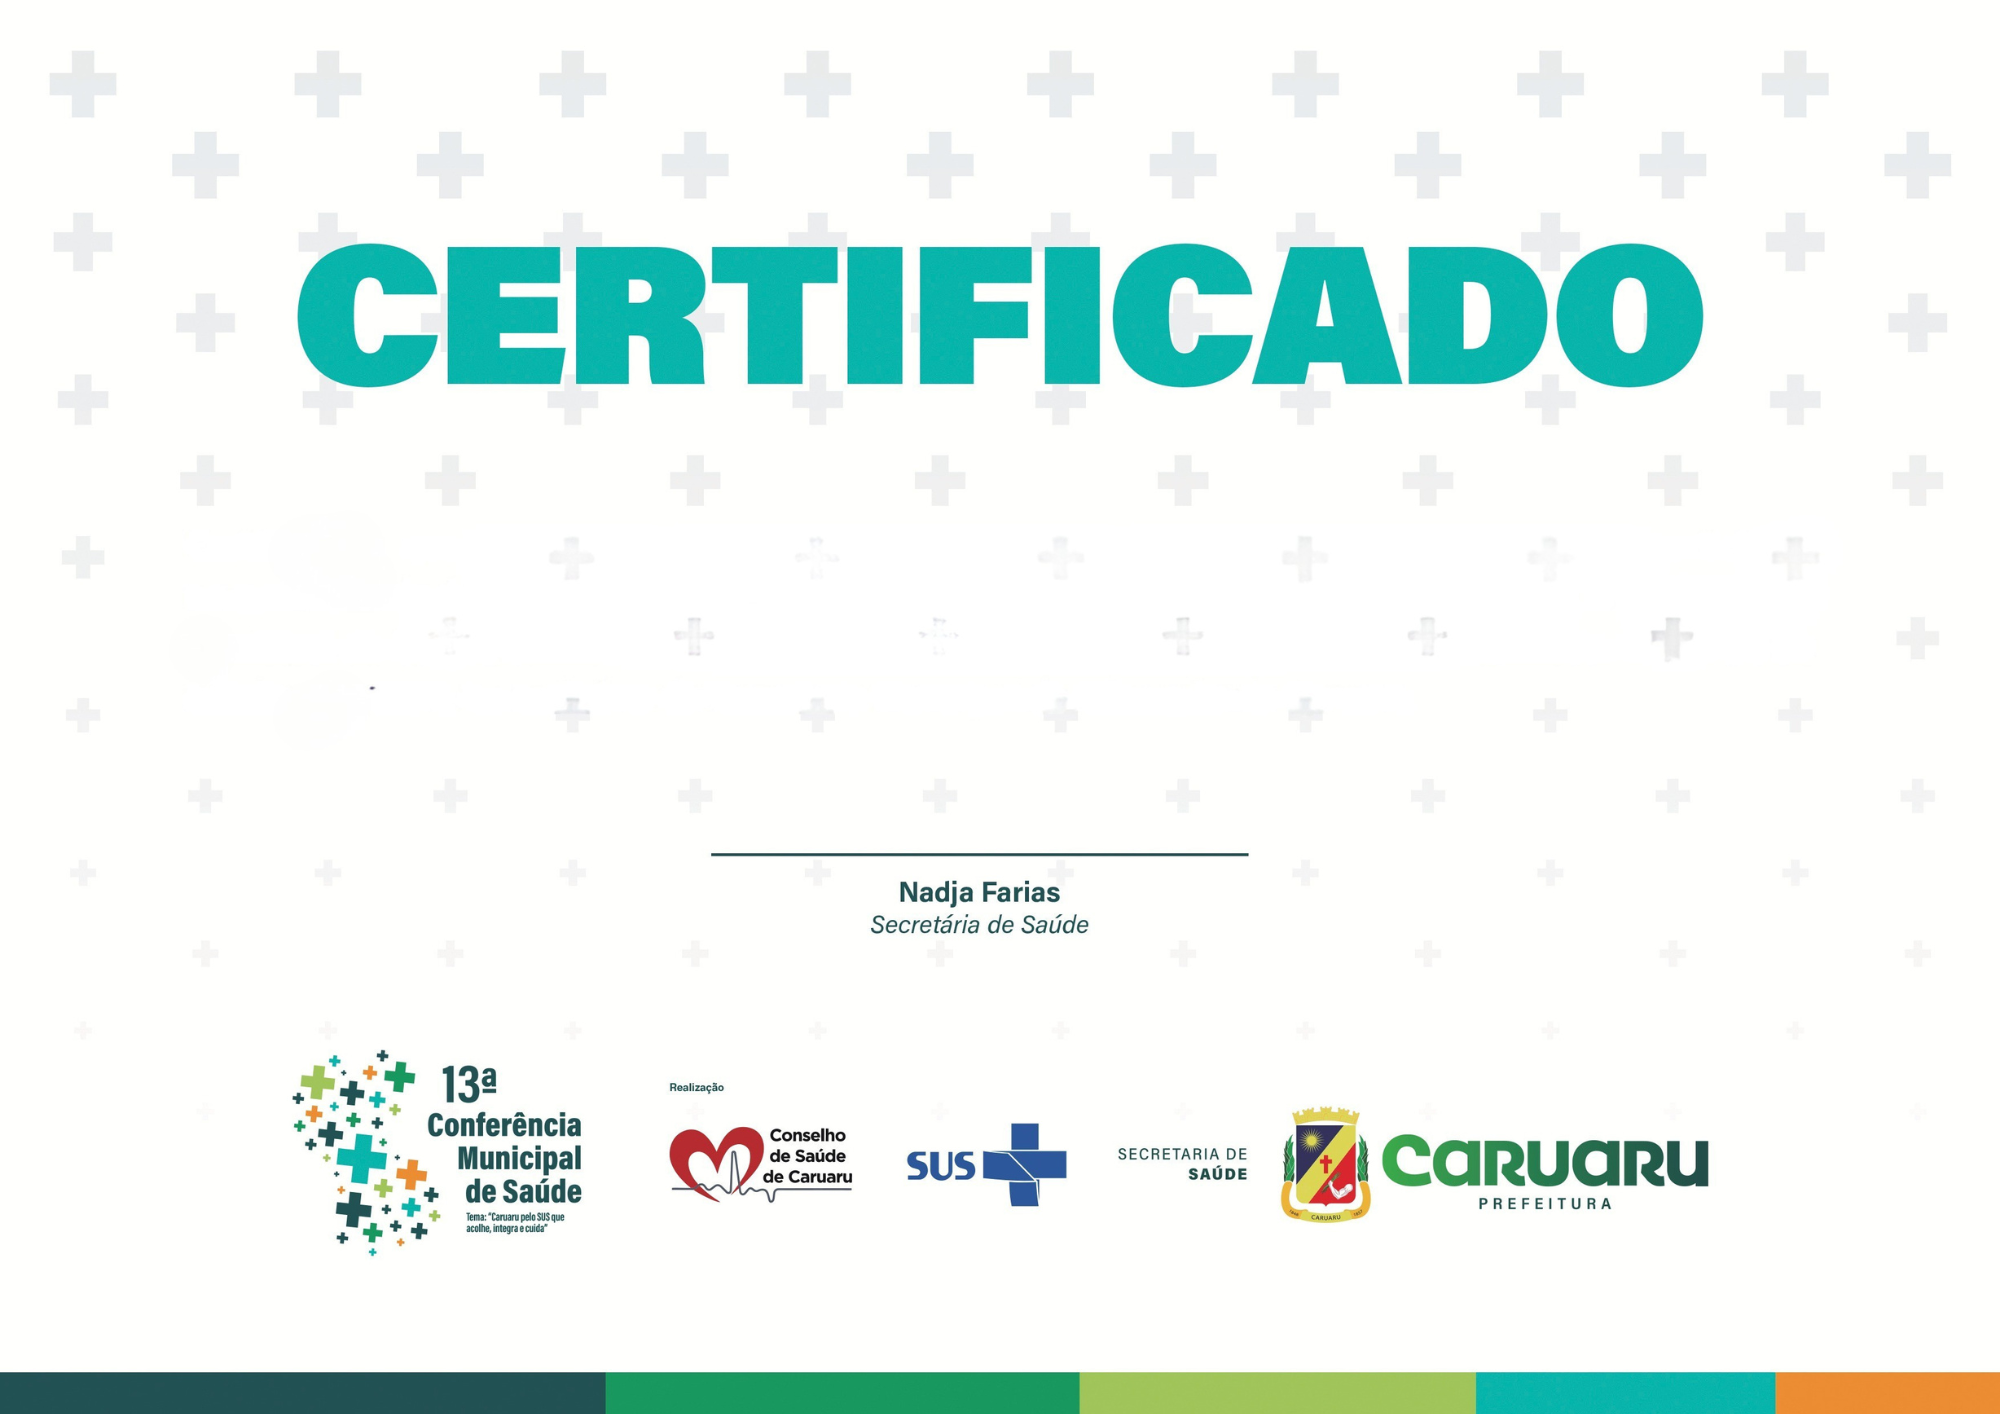
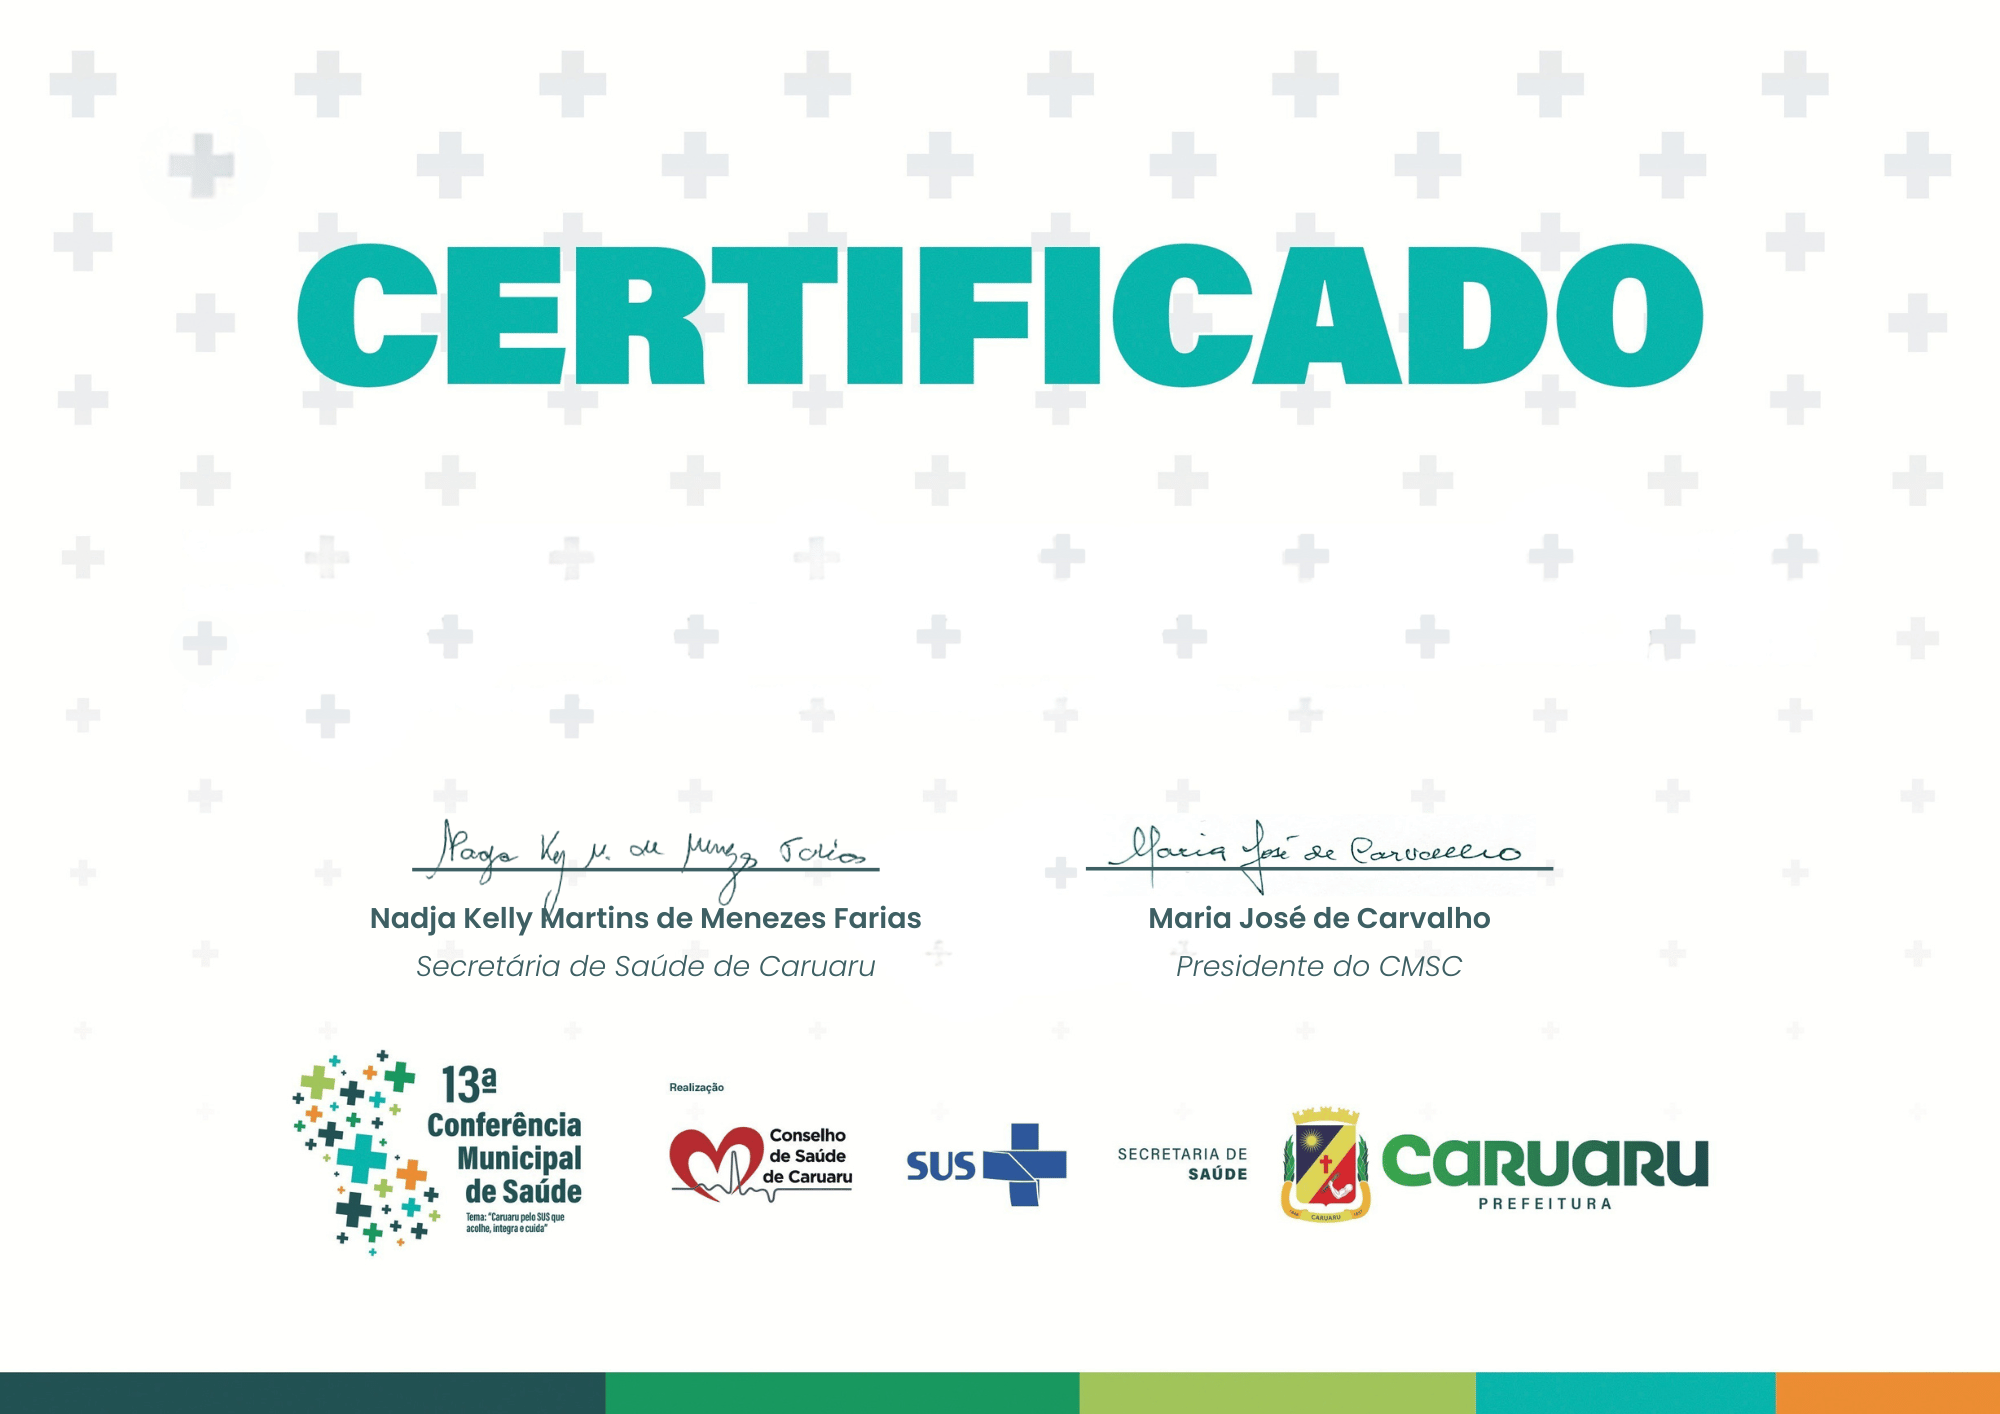
Projeto 13º CMSC V1.0.1 - Liberação da Emissão do Certificado

Changed region(s): [[0.186, 0.5912, 0.527, 0.6846], [0.527, 0.5912, 0.775, 0.6846]]

diff --git a/resources/views/public/certificados.blade.php b/resources/views/public/certificados.blade.php
@@ -16,21 +16,22 @@
                 </p>
             </div>
 
-            <div class="max-w-xl mx-auto mt-12">
+            <div class="max-w-2xl mx-auto mt-12">
 
-                <div class="mx-auto">
+                <div class="flex justify-center mx-auto">
                     <form action="{{ route('certificados') }}" method="GET" class="flex gap-2">                    
                         <!-- CPF -->
-                        <div class="mb-4 w-full">
+                        <div class="mb-4 w-80">
                             <x-form.input-label for="cpf" :value="__('CPF')"/>
                             <x-form.input type="text" id="cpf" name="cpf" value="{{ old('cpf', $cpf) }}" :placeholder="__('Your CPF')" required onkeyup="handleCPF(event)" maxlength="14" minlength="14"/>
                             <x-form.input-error :messages="$errors->get('cpf')" class="mt-2" />
                         </div>
                     
                         <!-- Botão de Envio -->
-                        <div class="mt-7">
+                        <div class="mt-6 w-40">
                             <x-button.btn-primary type="submit" class="w-full">
                                 <i class="fa-solid fa-magnifying-glass"></i>
+                                <span>Buscar</span>
                             </x-button.btn-primary>
                         </div>
                     </form>

diff --git a/resources/views/components/button/btn-primary.blade.php b/resources/views/components/button/btn-primary.blade.php
@@ -21,14 +21,14 @@
         type="button"
         x-on:click="loading = true; $el.form.submit()"
         {{ $attributes->merge([
-            'class' => 'px-5 py-2 rounded-md bg-green-600 text-white text-xs font-medium 
+            'class' => 'px-5 py-2.5 rounded-md bg-green-600 text-white text-xs font-medium 
                         hover:bg-green-700 focus:outline-none focus:ring-2 focus:ring-green-300 
                         transition duration-200 active:scale-95 
                         disabled:opacity-50 disabled:cursor-not-allowed'
         ]) }}
     >
         <span x-show="!loading">{{ $slot }}</span>
-        <span x-show="loading">{{ __('Enviando Dados ...')}}</span>
+        <span x-show="loading">{{ __('Aguarde ...')}}</span>
     </button>
 </div>
 
